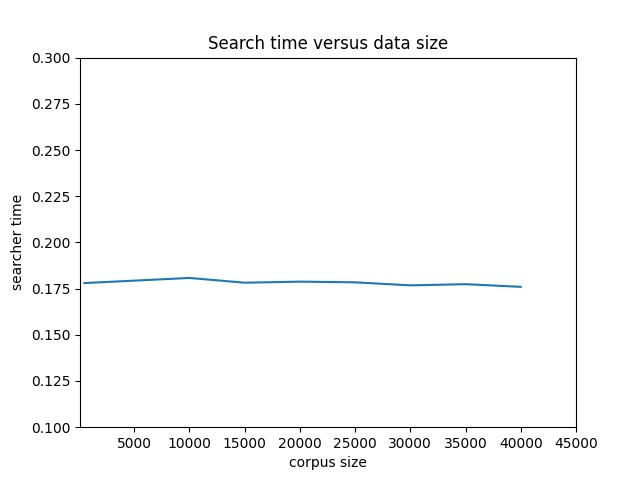
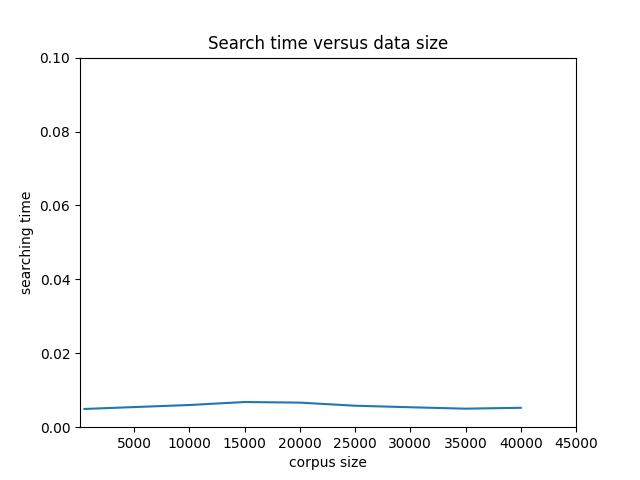
3.22

diff --git a/indexer.cpp b/indexer.cpp
@@ -6,42 +6,44 @@
 #include <sstream>
 #include <queue>
 #include <fstream>
+#include <codecvt>
 #include <unordered_set>
 #include <regex>
 #include <chrono>
+
 using namespace std::chrono;
 
 using namespace std;
 const string STOP_WORDS = "stopwords.txt";
 
-void load_stopWords(unordered_set<string>& stopWords) {
+void load_stopWords(unordered_set<string> &stopWords) {
     ifstream stpWord(STOP_WORDS);
-    if(!stpWord.is_open()){
+    if (!stpWord.is_open()) {
         cerr << "Can't open stopwords.txt";
         ::exit(0);
     }
     string word;
-    while(getline(stpWord, word)){
+    while (getline(stpWord, word)) {
         stopWords.insert(word);
         word.clear();
     }
 }
 
-void load_metaData(const string& dataset_name, vector<string>& data) {
+void load_metaData(const string &dataset_name, vector<string> &data) {
     ifstream metaData(dataset_name);
     string line;
-    while(getline(metaData, line)) {
+    while (getline(metaData, line)) {
         data.push_back(line);
         line.clear();
     }
-    if(data.size() % 2 != 0){
+    if (data.size() % 2 != 0) {
         cerr << "metadata problem";
         ::exit(0);
     }
 }
 
-int utf8_bytes(const char *s)
-{
+// Return the size of letter
+int utf8_bytes(const char *s) {
     unsigned char c = s[0];
     if (c <= 0x7F) {
         return 1;
@@ -58,59 +60,72 @@ int utf8_bytes(const char *s)
     return 0;
 }
 
-void word_tokenize(const string& s, vector<string>& tokens) {
-    std::regex symbols("[^1-9A-Za-zÀ-ÿ']+");
-    std::regex apostrophe_before_word("\\s'");
-    std::regex apostrophe_after_word("'\\s");
+void word_tokenize(const string& s, vector<string> &tokens) {
+    regex oneByteLetter("[a-zA-Z0-9]+");
 
-    // Remove standalone apostrophes
-    string s_without_apostrophes = regex_replace(s, apostrophe_before_word, " ");
-    s_without_apostrophes = regex_replace(s_without_apostrophes, apostrophe_after_word, " ");
+    wregex twoBytesLetter(L"[\u00C0-\u00D6\u00D8-\u00F6\u00F8-\u024F]");
 
-    stringstream ss(s_without_apostrophes);
+    stringstream ss(s);
     string token;
     while (getline(ss, token, ' ')) {
+        // if token is empty, skip
         if (token.empty()) continue;
-        if (regex_search(token, symbols)) {
-            queue<int> len_of_each_char;
-            for (const char *p = token.c_str(); *p != '\0'; p += utf8_bytes(p)) {
-                len_of_each_char.push(utf8_bytes(p));
-            }
-            int start = 0;
-            while(!len_of_each_char.empty()){
-                int len = len_of_each_char.front();
-                len_of_each_char.pop();
-                string temp = token.substr(start, len);
-                if (regex_search(temp, symbols)) {
+        // 对字符进行替换
+        queue<int> len_of_each_char;
+        for (const char *p = token.c_str(); *p != '\0'; p += utf8_bytes(p)) {
+            len_of_each_char.push(utf8_bytes(p));
+        }
+        int start = 0;
+        while (!len_of_each_char.empty()) {
+            int len = len_of_each_char.front();
+            len_of_each_char.pop();
+            string temp = token.substr(start, len);
+            if(len == 1){
+                if (!regex_search(temp, oneByteLetter)) {
                     token.erase(start, len);
                     token.insert(start, " ");
-                    start+=1;
-                }else{
+                    start += 1;
+                } else {
                     start += len;
                 }
             }
-            stringstream subToken(token);
-            string temp;
-            while (subToken >> temp) {
-                if(!temp.empty())
-                    tokens.push_back(temp);
+            else if(len == 2){
+                std::wstring_convert<std::codecvt_utf8_utf16<wchar_t>> converter;
+                std::wstring wide = converter.from_bytes(temp);
+                if (!regex_search(wide, twoBytesLetter)) {
+                    token.erase(start, len);
+                    token.insert(start, " ");
+                    start += 1;
+                } else {
+                    start += len;
+                }
             }
-        } else {
-            tokens.push_back(token);
+            else{
+                token.erase(start, len);
+                token.insert(start, " ");
+                start += 1;
+            }
+        }
+        // 去掉被替换的字符
+        stringstream subToken(token);
+        string temp;
+        while (subToken >> temp) {
+            if (!temp.empty())
+                tokens.push_back(temp);
         }
     }
 }
 
-void remove_stop_words(vector<string>& terms, const vector<string>& tokens, const unordered_set<string>& stopWords){
-    for(const auto & token : tokens){
-        if(stopWords.find(token) == stopWords.end()){
+void remove_stop_words(vector<string> &terms, const vector<string> &tokens, const unordered_set<string> &stopWords) {
+    for (const auto &token: tokens) {
+        if (stopWords.find(token) == stopWords.end()) {
             terms.push_back(token);
         }
     }
 }
 
 int main(int argc, char **argv) {
-    if(argc < 3) {
+    if (argc < 3) {
         cerr << "Usage: <dataset_name> <index_name>" << endl;
         exit(0);
     }
@@ -124,7 +139,7 @@ int main(int argc, char **argv) {
     load_metaData(dataset_name, data);
     load_stopWords(stopWords);
     vector<string> tokens;
-    for(int i = 0; i < data.size(); i+=2) {
+    for (int i = 0; i < data.size(); i += 2) {
         doc.add_value(0, data[i]);
         doc.add_value(1, data[i + 1]);
         string d = data[i] + ' ' + data[i + 1];

diff --git a/generate_corpus.py b/generate_corpus.py
@@ -43,7 +43,7 @@ print(indexer_time)
 print(searcher_time)
 
 plt.plot(corpus, indexer_time)
-plt.ylabel("indexer time")
+plt.ylabel("indexing time")
 plt.xlabel("corpus size")
 plt.xlim(100, 45000)
 plt.ylim(0, 30)
@@ -52,10 +52,10 @@ plt.savefig('assets/1.jpg')
 plt.close()
 
 plt.plot(corpus, searcher_time)
-plt.ylabel("searcher time")
+plt.ylabel("searching time")
 plt.xlabel("corpus size")
 plt.xlim(100, 45000)
-plt.ylim(0.1, 0.3)
+plt.ylim(0, 0.1)
 plt.title("Search time versus data size")
 plt.savefig('assets/2.jpg')
 plt.close()
@@ -77,10 +77,10 @@ for i in corpus_size:
     r.close()
 
 plt.plot(corpus_size, search_test_OR)
-plt.ylabel("searcher time")
+plt.ylabel("searching time")
 plt.xlabel("corpus size")
 plt.xlim(2, 20)
-plt.ylim(0.1, 0.3)
+plt.ylim(0, 0.1)
 plt.title("Search time versus number of OR-keywords in the query")
 plt.savefig('assets/4.jpg')
 plt.close()
@@ -97,7 +97,7 @@ plt.plot(corpus_size, search_test_AND)
 plt.ylabel("searcher time")
 plt.xlabel("corpus size")
 plt.xlim(2, 20)
-plt.ylim(0.1, 0.3)
+plt.ylim(0, 0.1)
 plt.title("Search time versus number of AND-keywords in the query")
 plt.savefig('assets/3.jpg')
 plt.close()
